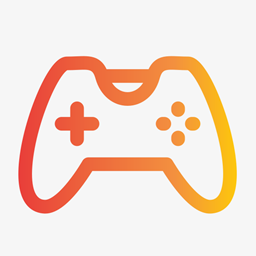
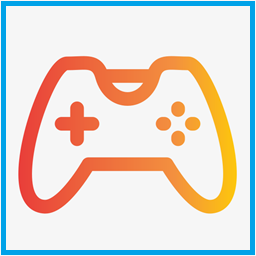
main page style fix

Changed region(s): [[0.0, 0.0, 1.0, 1.0]]

diff --git a/index.html b/index.html
@@ -14,13 +14,24 @@
 
     <body>
 <div style="text-align:center;clear:both;">
-<!--
-<script src="/gg_bd_ad_720x90.js" type="text/javascript"></script>
-<script src="/follow.js" type="text/javascript"></script>
--->
+
 </div>
 
-        <td colspan="2"><div align="center"><a target="_blank"><img src="./homepage_pic/title.png" width="400" height="100" border="0"></a></div></td>
+        <td colspan="2"><div align="center"><canvas id="title-canvas" width="400" height="100"></canvas></div></td>
+        <script>
+            const canvas = document.getElementById('title-canvas');
+            const ctx = canvas.getContext('2d');
+            const gradient = ctx.createLinearGradient(0, 0, canvas.width, 0);
+            gradient.addColorStop(0, '#ff6600');
+            gradient.addColorStop(0.5, '#ffff00');
+            gradient.addColorStop(1, '#66ff66');
+            ctx.font = 'bold 60px sans-serif';
+            ctx.fillStyle = gradient;
+            ctx.textAlign = 'center';
+            ctx.shadowColor = '#ff69b4';
+            ctx.shadowBlur = 30;
+            ctx.fillText('Chuai 的主页', canvas.width / 2, 70);
+        </script>
         
         <ul id="gallery">
         <!-- The instagram photos will go here as <li> elements -->
@@ -35,14 +46,18 @@
         <li><a href="./games/index.html" target="_blank" href="#"><img src="./homepage_pic/games.png"></a></li>
         </ul>
         
+
+        <!--
+
         <a href="#" id="gravityButton">随便玩玩</a>
 
-        <!-- JavaScript includes -->
-        <!-- script src="http://code.jquery.com/jquery-1.8.2.min.js"></script-->
+        < script src="http://code.jquery.com/jquery-1.8.2.min.js"></script>
         <script src="assets/js/jquery-1.8.2.min.js"></script>
         <script src="assets/js/spectragram.min.js"></script>
         <script src="assets/js/jGravity-min.js"></script>
         <script src="assets/js/script.js"></script>
+
+        -->
         
     </body>
 </html>

diff --git a/games/index.html b/games/index.html
@@ -14,20 +14,31 @@
 
     <body>
 <div style="text-align:center;clear:both;">
-<!--
-<script src="/gg_bd_ad_720x90.js" type="text/javascript"></script>
-<script src="/follow.js" type="text/javascript"></script>
--->
+
 </div>
 
-        <td colspan="2"><div align="center"><a target="_blank"><img src="./title.png" width="400" height="100" border="0"></a></div></td>
+        <td colspan="2"><div align="center"><canvas id="title-canvas" width="400" height="100"></canvas></div></td>
+        <script>
+            const canvas = document.getElementById('title-canvas');
+            const ctx = canvas.getContext('2d');
+            const gradient = ctx.createLinearGradient(0, 0, canvas.width, 0);
+            gradient.addColorStop(0, '#ff6600');
+            gradient.addColorStop(0.5, '#ffff00');
+            gradient.addColorStop(1, '#66ff66');
+            ctx.font = 'bold 60px sans-serif';
+            ctx.fillStyle = gradient;
+            ctx.textAlign = 'center';
+            ctx.shadowColor = '#ff69b4';
+            ctx.shadowBlur = 30;
+            ctx.fillText('Chuai神 游戏', canvas.width / 2, 70);
+        </script>
         
         <ul id="gallery">
         <!-- The instagram photos will go here as <li> elements -->
         <li><a href="./jump_and_squat/index.html" target="_blank" href="#"><img src="./jump_and_squat/games.png"></a></li>
         <li><a href="./tank_war_field/index.html" target="_blank" href="#"><img src="./tank_war_field/games.png"></a></li>
         </ul>
-        
+
     </body>
 </html>
 
